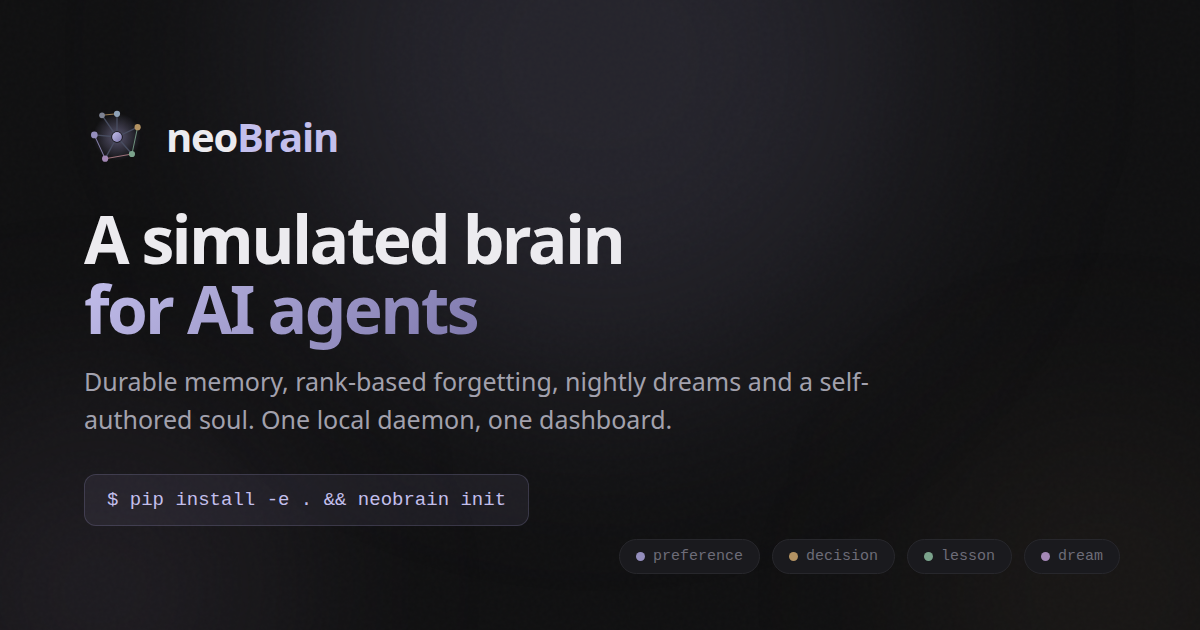
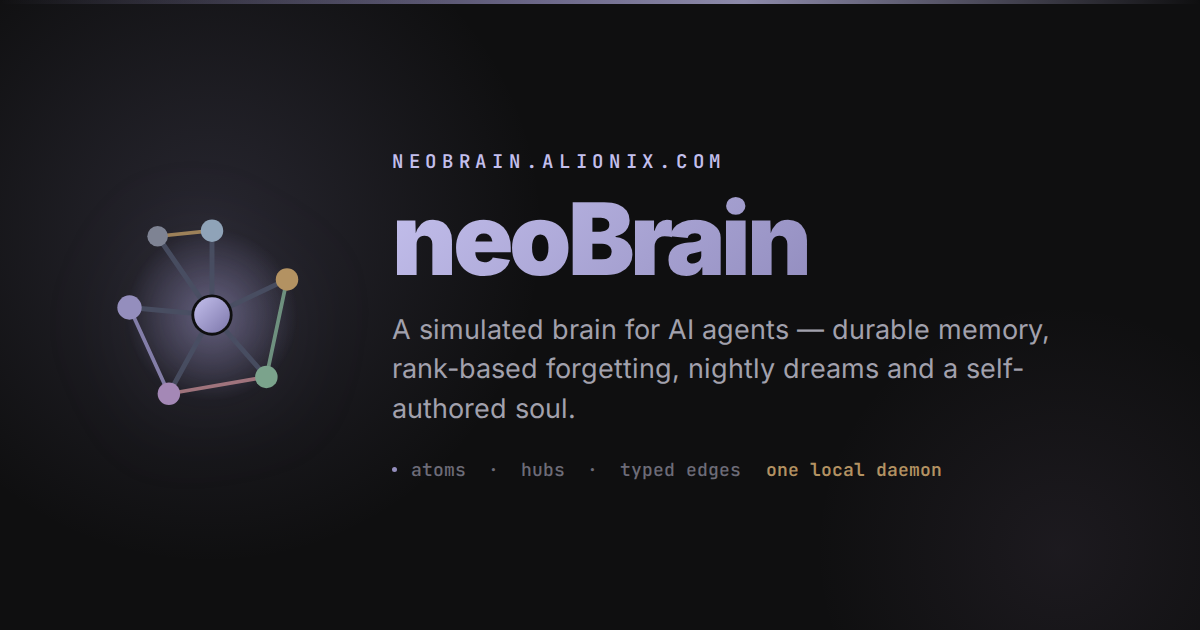
website: redraw the hero graph and og card in the restrained style
Replace the cartoon mark (fat strokes, r=26 blob) with a precise graph: small
gradient core, varied 2.8-5.5px atoms with 0.9px halos, 1px edges graded by
distance, 14% radial glow. og-image rebuilt to match.

diff --git a/website/index.html b/website/index.html
@@ -446,39 +446,74 @@
             <svg viewBox="0 0 440 340" preserveAspectRatio="xMidYMid meet" aria-label="Brain graph mockup">
               <defs>
                 <radialGradient id="graphGlow" cx="0.5" cy="0.5" r="0.5">
-                  <stop offset="0" stop-color="#948ebd" stop-opacity="0.16"/>
+                  <stop offset="0" stop-color="#948ebd" stop-opacity="0.14"/>
                   <stop offset="1" stop-color="#948ebd" stop-opacity="0"/>
                 </radialGradient>
+                <radialGradient id="hubGlow" cx="0.5" cy="0.5" r="0.5">
+                  <stop offset="0" stop-color="#948ebd" stop-opacity="0.18"/>
+                  <stop offset="1" stop-color="#948ebd" stop-opacity="0"/>
+                </radialGradient>
+                <linearGradient id="hubGrad" x1="0" y1="0" x2="1" y2="1">
+                  <stop offset="0" stop-color="#c3bfec"/>
+                  <stop offset="1" stop-color="#7d77ab"/>
+                </linearGradient>
               </defs>
-              <rect width="440" height="340" fill="#111114"/>
-              <circle cx="220" cy="170" r="150" fill="url(#graphGlow)"/>
-              <!-- edges -->
-              <g fill="none" stroke="#4a5064" stroke-width="1.6" opacity="0.85">
-                <path d="M220 170 220 58M220 170 348 112M220 170 342 250M220 170 118 268M220 170 72 140M220 170 132 66"/>
-                <path d="M132 66 220 58M348 112 342 250M72 140 118 268M118 268 342 250"/>
+              <rect width="440" height="340" fill="#101013"/>
+              <circle cx="206" cy="168" r="150" fill="url(#graphGlow)"/>
+
+              <!-- hub to atom edges, opacity graded by distance -->
+              <g fill="none" stroke="#4a5064" stroke-width="1" stroke-linecap="round">
+                <line x1="206" y1="168" x2="206" y2="48"  opacity="0.50"/>
+                <line x1="206" y1="168" x2="340" y2="102" opacity="0.44"/>
+                <line x1="206" y1="168" x2="366" y2="218" opacity="0.40"/>
+                <line x1="206" y1="168" x2="248" y2="292" opacity="0.50"/>
+                <line x1="206" y1="168" x2="88"  y2="248" opacity="0.46"/>
+                <line x1="206" y1="168" x2="70"  y2="120" opacity="0.46"/>
+                <line x1="206" y1="168" x2="322" y2="158" opacity="0.52"/>
+                <line x1="206" y1="168" x2="138" y2="148" opacity="0.60"/>
               </g>
-              <!-- typed edges -->
-              <g fill="none" stroke-width="1.6" opacity="0.9">
-                <path d="M132 66 220 58" stroke="#b39262"/>
-                <path d="M348 112 342 250" stroke="#7ba38c"/>
-                <path d="M72 140 118 268" stroke="#948ebd"/>
-                <path d="M118 268 342 250" stroke="#b5828a"/>
+
+              <!-- typed edges between atoms -->
+              <g fill="none" stroke-width="1" stroke-linecap="round" opacity="0.8">
+                <line x1="206" y1="48"  x2="340" y2="102" stroke="#b39262"/>
+                <line x1="340" y1="102" x2="366" y2="218" stroke="#7ba38c"/>
+                <line x1="88"  y1="248" x2="70"  y2="120" stroke="#948ebd"/>
+                <line x1="366" y1="218" x2="248" y2="292" stroke="#a488b6"/>
+                <line x1="70"  y1="120" x2="206" y2="48"  stroke="#7e8393"/>
+                <line x1="322" y1="158" x2="340" y2="102" stroke="#b39262"/>
               </g>
-              <!-- hubs -->
-              <g fill="#4a5064" opacity="0.55">
-                <circle cx="220" cy="170" r="26"/>
-              </g>
-              <!-- nodes -->
-              <circle cx="220" cy="58" r="9" fill="#8fa3b8"/>
-              <circle cx="348" cy="112" r="9" fill="#b39262"/>
-              <circle cx="342" cy="250" r="9" fill="#7ba38c"/>
-              <circle cx="118" cy="268" r="9" fill="#a488b6"/>
-              <circle cx="72" cy="140" r="9.5" fill="#948ebd"/>
-              <circle cx="132" cy="66" r="8" fill="#7e8393"/>
-              <!-- center -->
-              <circle cx="220" cy="170" r="17" fill="#0f0f10"/>
-              <circle cx="220" cy="170" r="13" fill="#948ebd"/>
-              <circle cx="220" cy="170" r="13" fill="none" stroke="#c3bfec" stroke-width="1.5" opacity="0.7"/>
+
+              <!-- hub -->
+              <circle cx="206" cy="168" r="30" fill="url(#hubGlow)"/>
+              <circle cx="206" cy="168" r="7" fill="#0f0f10"/>
+              <circle cx="206" cy="168" r="5.5" fill="url(#hubGrad)"/>
+              <circle cx="206" cy="168" r="5.5" fill="none" stroke="#c3bfec" stroke-width="0.9" opacity="0.7"/>
+
+              <!-- atoms: halo + core, varied radii -->
+              <circle cx="206" cy="48"  r="8.5" fill="none" stroke="#8fa3b8" stroke-width="0.9" opacity="0.22"/>
+              <circle cx="206" cy="48"  r="4.5" fill="#8fa3b8"/>
+
+              <circle cx="340" cy="102" r="8"   fill="none" stroke="#b39262" stroke-width="0.9" opacity="0.22"/>
+              <circle cx="340" cy="102" r="4"   fill="#b39262"/>
+
+              <circle cx="366" cy="218" r="8.5" fill="none" stroke="#7ba38c" stroke-width="0.9" opacity="0.22"/>
+              <circle cx="366" cy="218" r="4.5" fill="#7ba38c"/>
+
+              <circle cx="248" cy="292" r="7.5" fill="none" stroke="#a488b6" stroke-width="0.9" opacity="0.22"/>
+              <circle cx="248" cy="292" r="3.5" fill="#a488b6"/>
+
+              <circle cx="88"  cy="248" r="9.5" fill="none" stroke="#948ebd" stroke-width="0.9" opacity="0.26"/>
+              <circle cx="88"  cy="248" r="5.5" fill="#948ebd"/>
+              <circle cx="86.6" cy="246.6" r="1.4" fill="#c3bfec" opacity="0.85"/>
+
+              <circle cx="70"  cy="120" r="7.5" fill="none" stroke="#7e8393" stroke-width="0.9" opacity="0.22"/>
+              <circle cx="70"  cy="120" r="3.5" fill="#7e8393"/>
+
+              <circle cx="322" cy="158" r="6.8" fill="none" stroke="#b39262" stroke-width="0.9" opacity="0.22"/>
+              <circle cx="322" cy="158" r="2.8" fill="#b39262"/>
+
+              <circle cx="138" cy="148" r="6.8" fill="none" stroke="#948ebd" stroke-width="0.9" opacity="0.22"/>
+              <circle cx="138" cy="148" r="2.8" fill="#948ebd"/>
             </svg>
           </div>
         </div>
